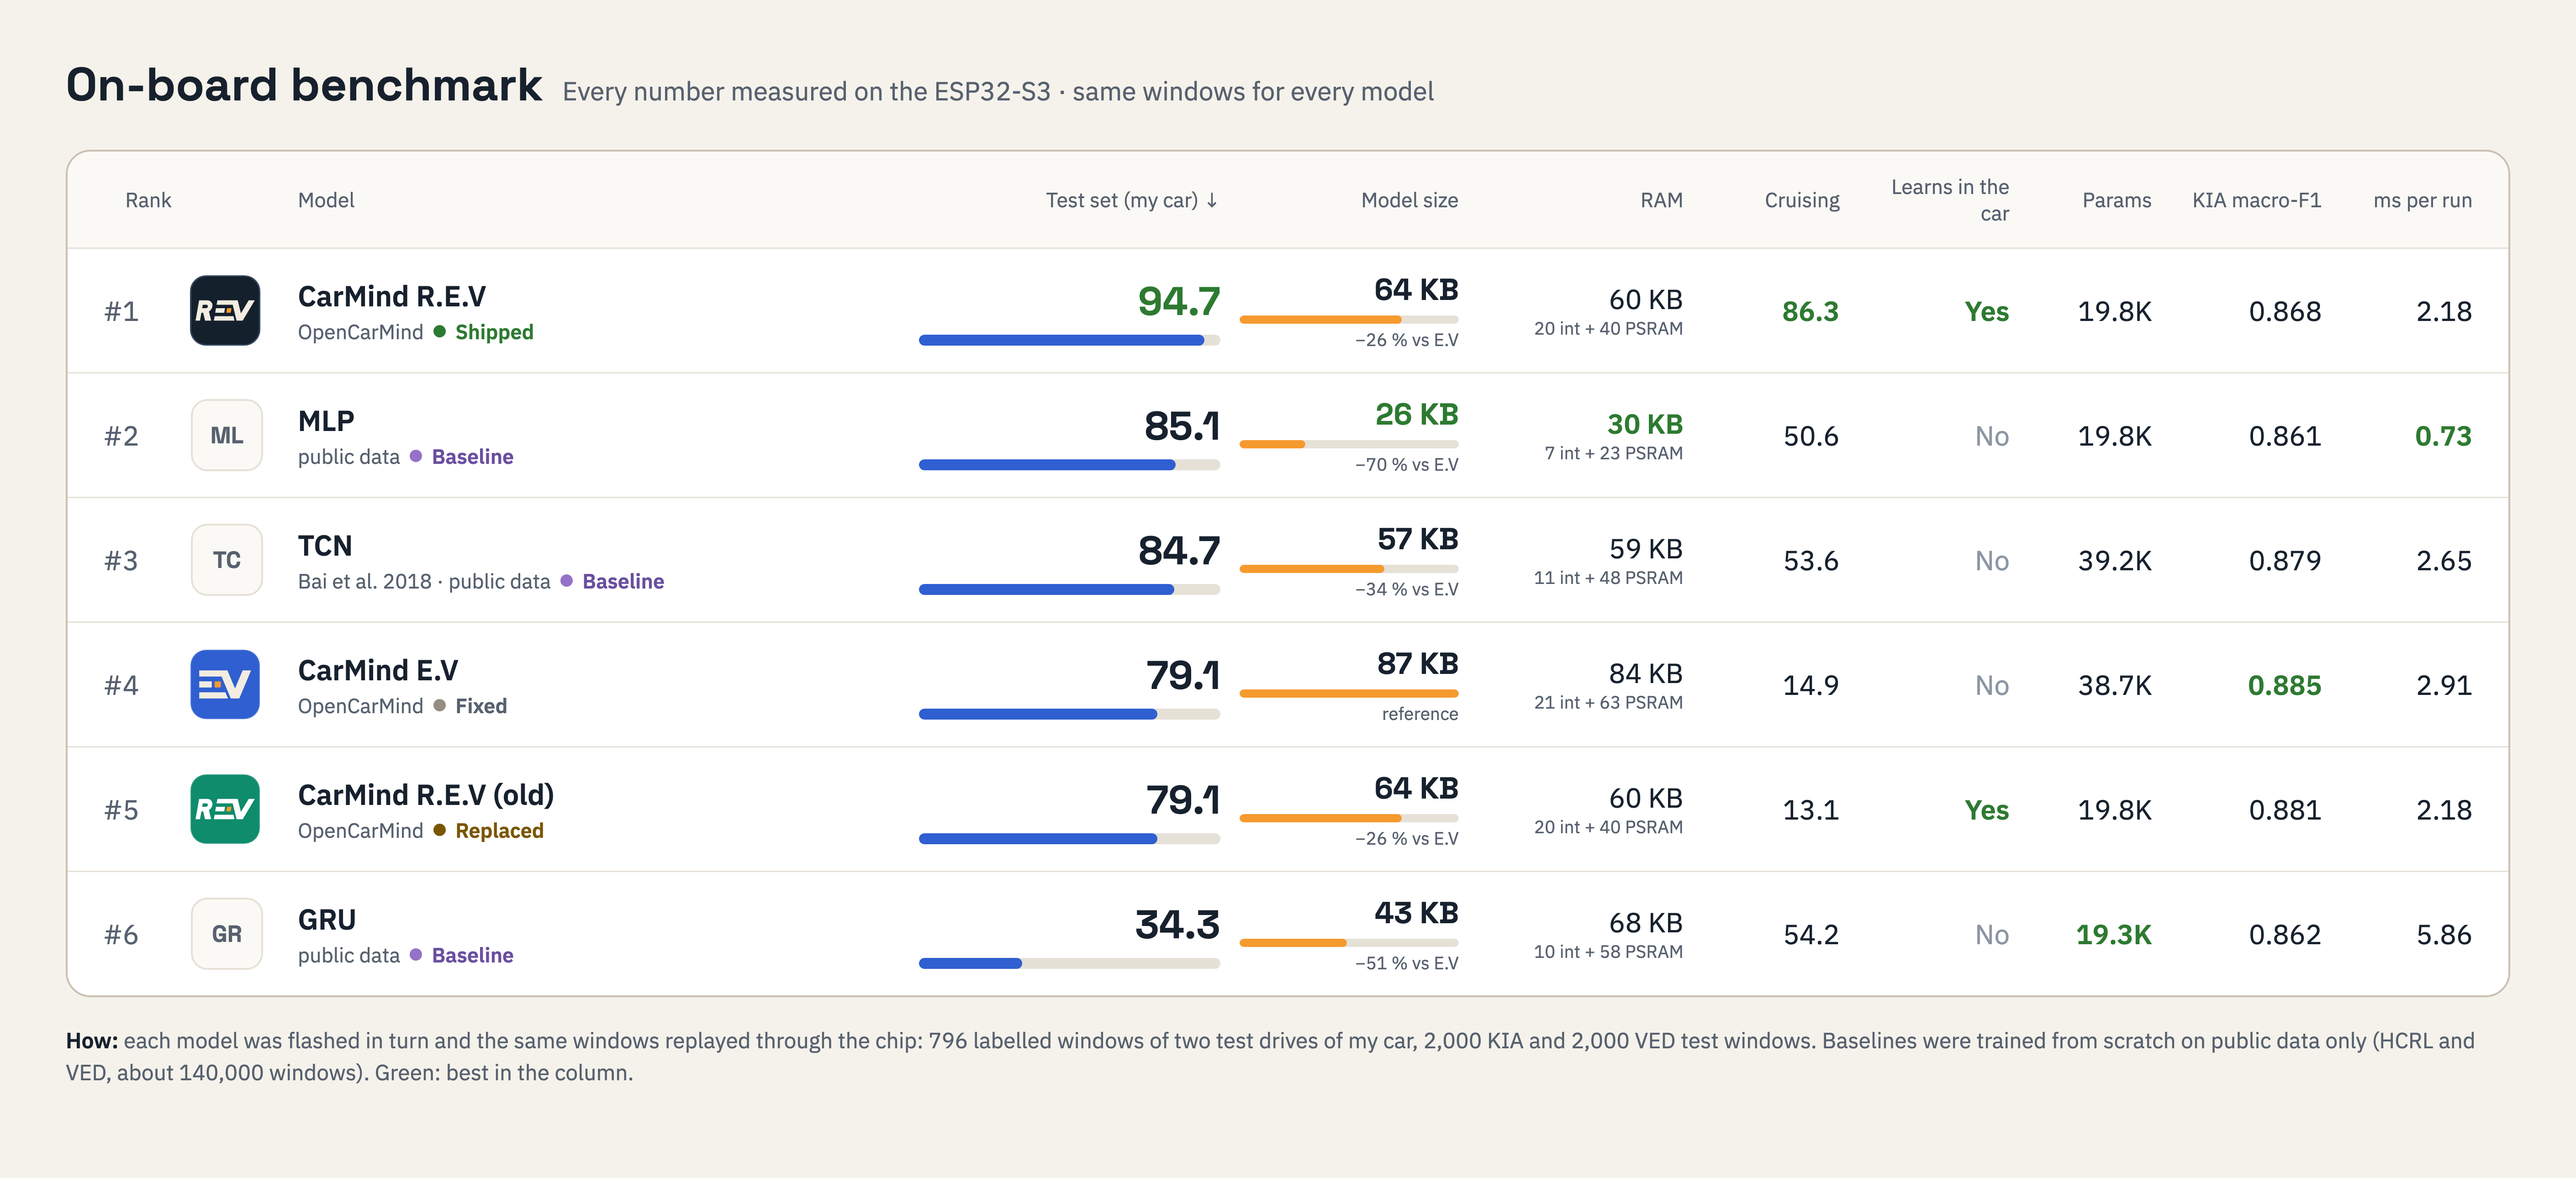
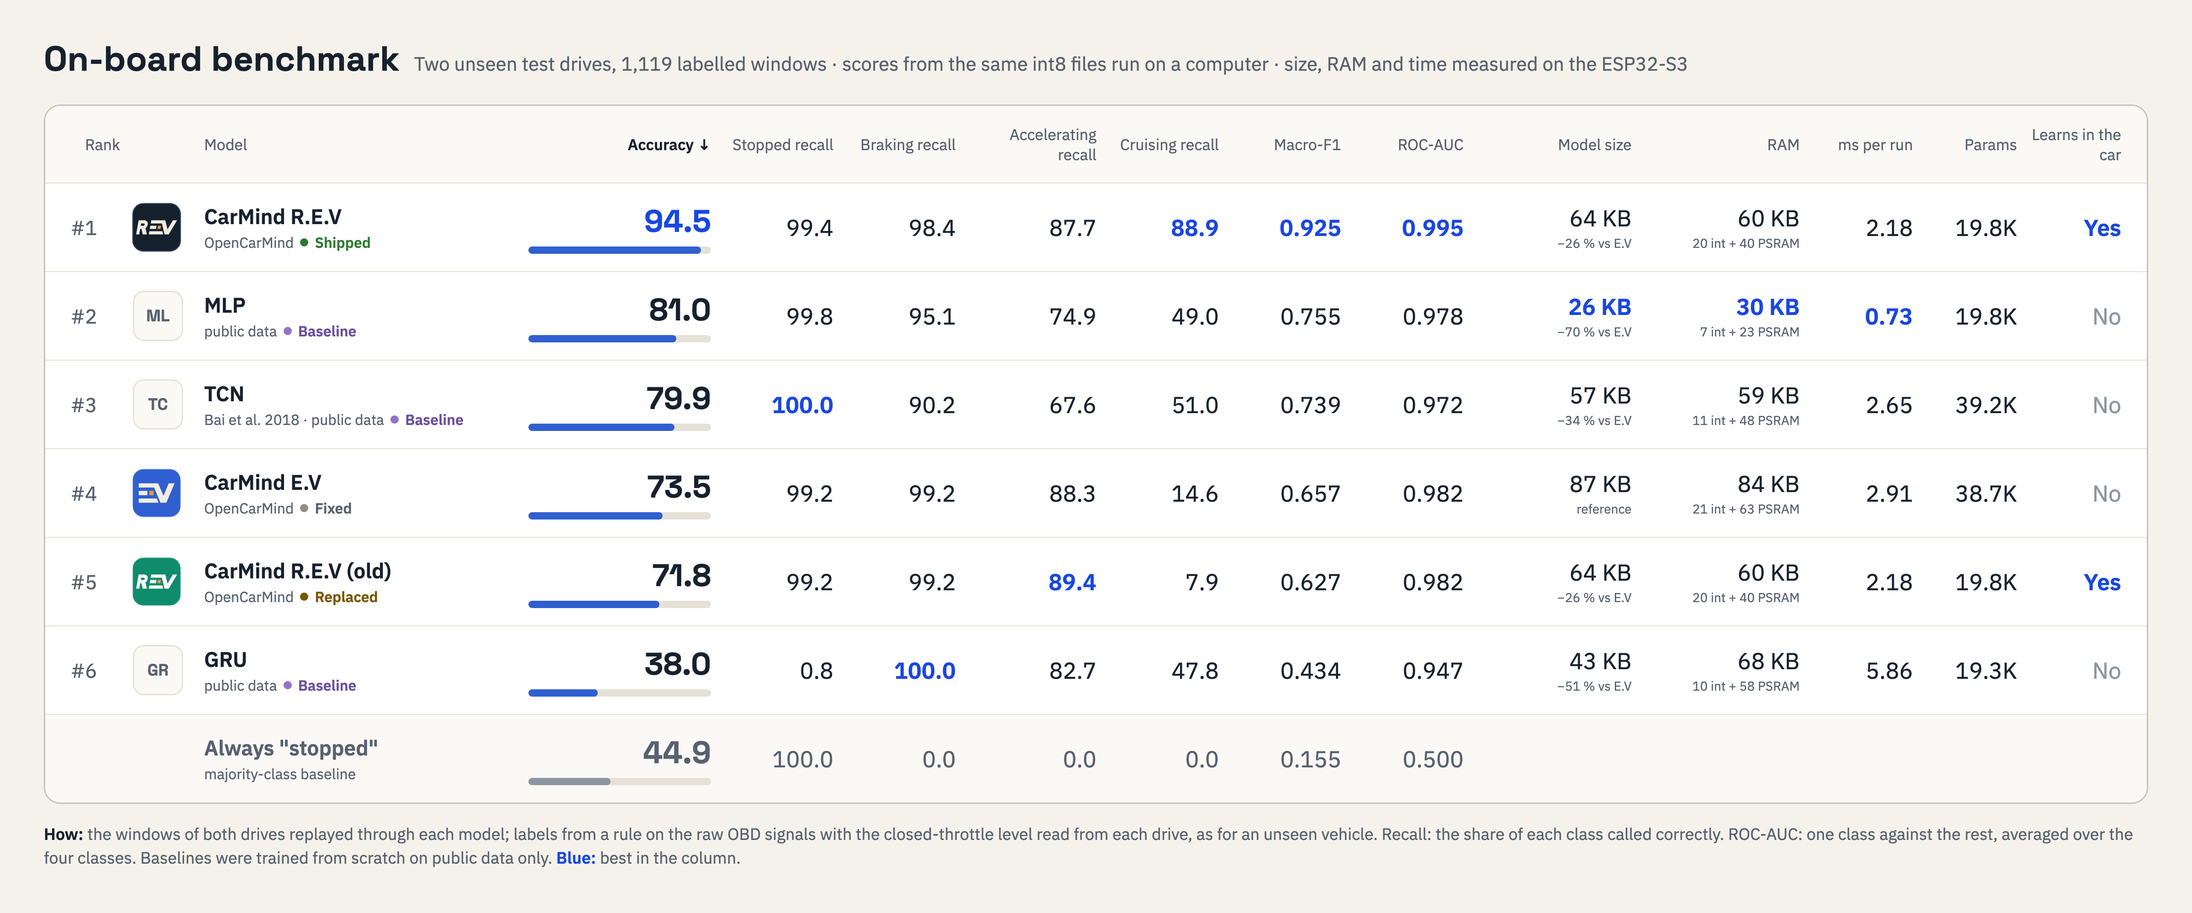
Benchmark table on the two unseen test drives: recall per class, macro-F1, ROC-AUC
Claude-Session: https://claude.ai/code/session_01XTAvvNGWPbxk6e88iM5qjd

diff --git a/docs/images/src/board-bench.html b/docs/images/src/board-bench.html
@@ -1,129 +1,133 @@
 <!doctype html>
-<html lang="en">
-<head>
-<meta charset="utf-8">
-<title>On-board benchmark</title>
-<link href="https://fonts.googleapis.com/css2?family=Space+Grotesk:wght@500;700&family=IBM+Plex+Sans:wght@400;500;600&display=swap" rel="stylesheet">
-<!-- Generated from the on-board bench results (every number measured on the ESP32-S3). Render with docs/images/render.sh. -->
+<html lang="en"><head><meta charset="utf-8"><title>On-board benchmark</title>
+<link rel="stylesheet" href="https://fonts.googleapis.com/css2?family=Space+Grotesk:wght@500;700&family=IBM+Plex+Sans:wght@400;500;600&display=swap">
 <style>
 html, body { margin: 0; background: #F5F2EB; font-family: 'IBM Plex Sans', system-ui, sans-serif; color: #17212E; }
-.wrap { width: 1880px; box-sizing: border-box; padding: 40px 48px 34px; }
-.head { display: flex; align-items: baseline; gap: 14px; }
-h1 { font-family: 'Space Grotesk', sans-serif; font-weight: 700; font-size: 34px; margin: 0; }
-.snap { font-size: 19px; color: #57616F; }
+.wrap { width: 2400px; box-sizing: border-box; padding: 40px 48px 34px; }
+.head { display: flex; align-items: baseline; gap: 16px; }
+h1 { font-family: 'Space Grotesk', sans-serif; font-weight: 700; font-size: 38px; margin: 0; }
+.snap { font-size: 21px; color: #57616F; }
 .table { margin-top: 26px; background: #FFFFFF; border: 1.5px solid #C9C1B3; border-radius: 18px; overflow: hidden; }
-.tr { display: grid; grid-template-columns: 50px 64px minmax(0, 1fr) 220px 160px 150px 100px 110px 90px 110px 96px; align-items: center; gap: 0 14px; padding: 0 26px; min-height: 90px; border-top: 1px solid #E6E1D7; }
-.th { min-height: 70px; border-top: none; background: #FBF9F5; font-size: 15px; color: #57616F; line-height: 1.3; }
+.tr { display: grid; grid-template-columns: 54px 64px minmax(0, 1fr) 200px 120px 120px 140px 120px 120px 120px 170px 170px 110px 100px 100px; align-items: center; gap: 0 14px; padding: 0 28px; min-height: 96px; border-top: 1px solid #E6E1D7; }
+.th { min-height: 84px; border-top: none; background: #FBF9F5; font-size: 17px; color: #57616F; line-height: 1.3; }
 .th span { text-align: right; }
-.th .c, .num.c { background: transparent; }
-.th .grp { color: #57616F; }
-.rank { font-size: 20px; color: #57616F; }
-.logo { width: 50px; height: 50px; border-radius: 12px; display: flex; align-items: center; justify-content: center; border: 1.5px solid #E6E1D7; font-family: 'Space Grotesk', sans-serif; font-weight: 700; font-size: 17px; color: #57616F; background: #FBF9F5; }
-.logo.ocm { background: #15202D; border-color: #15202D; }
-.logo img { width: 38px; height: 38px; }
+.th .grp { color: #17212E; font-weight: 600; }
+.rank { font-size: 22px; color: #57616F; }
+.logo { width: 52px; height: 52px; border-radius: 12px; display: flex; align-items: center; justify-content: center; border: 1.5px solid #E6E1D7; font-family: 'Space Grotesk', sans-serif; font-weight: 700; font-size: 18px; color: #57616F; background: #FBF9F5; }
 .logo.badge { border: none; background: none; }
-.logo.badge img { width: 54px; height: 54px; display: block; }
-.nm { font-size: 21px; font-weight: 600; }
-.sub { font-size: 15px; color: #57616F; margin-top: 3px; display: flex; align-items: center; gap: 7px; }
+.logo.badge img { width: 56px; height: 56px; display: block; }
+.nm { font-size: 23px; font-weight: 600; }
+.sub { font-size: 16px; color: #57616F; margin-top: 3px; display: flex; align-items: center; gap: 7px; }
 .d { width: 9px; height: 9px; border-radius: 5px; }
 .d.ship { background: #2D7A31; } .d.fixed { background: #948D81; } .d.repl { background: #7A5600; } .d.base { background: #9372C8; }
 .tag { font-weight: 600; } .tag.ship { color: #2D7A31; } .tag.fixed { color: #57616F; } .tag.repl { color: #7A5600; } .tag.base { color: #6A4FA0; }
 .score { text-align: right; }
-.score .n { font-family: 'Space Grotesk', sans-serif; font-weight: 700; font-size: 29px; }
+.score .n { font-family: 'Space Grotesk', sans-serif; font-weight: 700; font-size: 34px; }
 .bar { height: 8px; border-radius: 4px; background: #E6E1D7; margin-top: 6px; overflow: hidden; }
 .bar i { display: block; height: 100%; border-radius: 4px; background: #2F5FD0; }
-.num { text-align: right; font-size: 20px; }
+.num { text-align: right; font-size: 25px; }
+.num small, .size small { display: block; font-size: 14px; color: #57616F; margin-top: 2px; }
 .size { text-align: right; }
-.size .n2 { font-family: 'Space Grotesk', sans-serif; font-weight: 700; font-size: 22px; }
-.size small { display: block; font-size: 13px; color: #57616F; margin-top: 3px; }
-.bar.s { height: 6px; margin-top: 5px; }
-.bar.s i { background: #F59A2E; }
-.num small { display: block; font-size: 13px; color: #57616F; }
-.best { color: #2D7A31; font-weight: 700; }
+.size .n2 { font-size: 25px; }
+.hi { color: #1A47E0; font-weight: 700; }
 .no { color: #8C96A3; }
-.ctx { display: flex; gap: 28px; margin-top: 20px; font-size: 16px; color: #57616F; line-height: 1.45; }
+.tr.base { background: #FBF9F5; color: #57616F; }
+.tr.base .num, .tr.base .score .n { color: #57616F; }
+.ctx { display: flex; gap: 28px; margin-top: 20px; font-size: 18px; color: #57616F; line-height: 1.45; }
 .ctx b { color: #17212E; font-weight: 600; }
-</style>
-</head>
+</style></head>
 <body>
 <div class="wrap">
-  <div class="head"><h1>On-board benchmark</h1><span class="snap">Every number measured on the ESP32-S3 · same windows for every model</span></div>
+  <div class="head"><h1>On-board benchmark</h1><span class="snap">Two unseen test drives, 1,119 labelled windows · scores from the same int8 files run on a computer · size, RAM and time measured on the ESP32-S3</span></div>
   <div class="table">
-    <div class="tr th"><span>Rank</span><span></span><span style="text-align:left">Model</span><span>Test set (my car) ↓</span><span>Model size</span><span>RAM</span><span>Cruising</span><span>Learns in the car</span><span>Params</span><span class="c">KIA macro-F1</span><span class="c">ms per run</span></div>
+    <div class="tr th"><span>Rank</span><span></span><span style="text-align:left">Model</span><span class="grp">Accuracy ↓</span><span>Stopped recall</span><span>Braking recall</span><span>Accelerating recall</span><span>Cruising recall</span><span>Macro-F1</span><span>ROC-AUC</span><span>Model size</span><span>RAM</span><span>ms per run</span><span>Params</span><span>Learns in the car</span></div>
 <div class="tr">
   <span class="rank">#1</span><span class="logo badge"><img src="../../../assets/logo/carmind-rev-small.svg" alt=""></span>
   <div><div class="nm">CarMind R.E.V</div><div class="sub">OpenCarMind <span class="d ship"></span><span class="tag ship">Shipped</span></div></div>
-  <div class="score"><span class="n"><span class="best">94.7</span></span><div class="bar"><i style="width:94.7%"></i></div></div>
-  <div class="size"><span class="n2"><span class="">64 KB</span></span><div class="bar s"><i style="width:74%"></i></div><small>−26 % vs E.V</small></div>
-  <span class="num"><span class="">60 KB</span><small>20 int + 40 PSRAM</small></span>
-  <span class="num"><span class="best">86.3</span></span>
-  <span class="num"><span class="best">Yes</span></span>
-  <span class="num"><span class="">19.8K</span></span>
-  <span class="num c"><span class="">0.868</span></span>
-  <span class="num c"><span class="">2.18</span></span>
+  <div class="score"><span class="n"><span class="hi">94.5</span></span><div class="bar"><i style="width:94.5%"></i></div></div>
+  <span class="num">99.4</span><span class="num">98.4</span><span class="num">87.7</span><span class="num"><span class="hi">88.9</span></span>
+  <span class="num"><span class="hi">0.925</span></span>
+  <span class="num"><span class="hi">0.995</span></span>
+  <div class="size"><span class="n2">64 KB</span><small>−26 % vs E.V</small></div>
+  <span class="num">60 KB<small>20 int + 40 PSRAM</small></span>
+  <span class="num">2.18</span>
+  <span class="num">19.8K</span>
+  <span class="num"><span class="hi">Yes</span></span>
 </div>
 <div class="tr">
   <span class="rank">#2</span><span class="logo">ML</span>
   <div><div class="nm">MLP</div><div class="sub">public data <span class="d base"></span><span class="tag base">Baseline</span></div></div>
-  <div class="score"><span class="n"><span class="">85.1</span></span><div class="bar"><i style="width:85.1%"></i></div></div>
-  <div class="size"><span class="n2"><span class="best">26 KB</span></span><div class="bar s"><i style="width:30%"></i></div><small>−70 % vs E.V</small></div>
-  <span class="num"><span class="best">30 KB</span><small>7 int + 23 PSRAM</small></span>
-  <span class="num"><span class="">50.6</span></span>
+  <div class="score"><span class="n">81.0</span><div class="bar"><i style="width:81.0%"></i></div></div>
+  <span class="num">99.8</span><span class="num">95.1</span><span class="num">74.9</span><span class="num">49.0</span>
+  <span class="num">0.755</span>
+  <span class="num">0.978</span>
+  <div class="size"><span class="n2"><span class="hi">26 KB</span></span><small>−70 % vs E.V</small></div>
+  <span class="num"><span class="hi">30 KB</span><small>7 int + 23 PSRAM</small></span>
+  <span class="num"><span class="hi">0.73</span></span>
+  <span class="num">19.8K</span>
   <span class="num"><span class="no">No</span></span>
-  <span class="num"><span class="">19.8K</span></span>
-  <span class="num c"><span class="">0.861</span></span>
-  <span class="num c"><span class="best">0.73</span></span>
 </div>
 <div class="tr">
   <span class="rank">#3</span><span class="logo">TC</span>
   <div><div class="nm">TCN</div><div class="sub">Bai et al. 2018 · public data <span class="d base"></span><span class="tag base">Baseline</span></div></div>
-  <div class="score"><span class="n"><span class="">84.7</span></span><div class="bar"><i style="width:84.7%"></i></div></div>
-  <div class="size"><span class="n2"><span class="">57 KB</span></span><div class="bar s"><i style="width:66%"></i></div><small>−34 % vs E.V</small></div>
-  <span class="num"><span class="">59 KB</span><small>11 int + 48 PSRAM</small></span>
-  <span class="num"><span class="">53.6</span></span>
+  <div class="score"><span class="n">79.9</span><div class="bar"><i style="width:79.9%"></i></div></div>
+  <span class="num"><span class="hi">100.0</span></span><span class="num">90.2</span><span class="num">67.6</span><span class="num">51.0</span>
+  <span class="num">0.739</span>
+  <span class="num">0.972</span>
+  <div class="size"><span class="n2">57 KB</span><small>−34 % vs E.V</small></div>
+  <span class="num">59 KB<small>11 int + 48 PSRAM</small></span>
+  <span class="num">2.65</span>
+  <span class="num">39.2K</span>
   <span class="num"><span class="no">No</span></span>
-  <span class="num"><span class="">39.2K</span></span>
-  <span class="num c"><span class="">0.879</span></span>
-  <span class="num c"><span class="">2.65</span></span>
 </div>
 <div class="tr">
   <span class="rank">#4</span><span class="logo badge"><img src="../../../assets/logo/carmind-ev-small.svg" alt=""></span>
   <div><div class="nm">CarMind E.V</div><div class="sub">OpenCarMind <span class="d fixed"></span><span class="tag fixed">Fixed</span></div></div>
-  <div class="score"><span class="n"><span class="">79.1</span></span><div class="bar"><i style="width:79.1%"></i></div></div>
-  <div class="size"><span class="n2"><span class="">87 KB</span></span><div class="bar s"><i style="width:100%"></i></div><small>reference</small></div>
-  <span class="num"><span class="">84 KB</span><small>21 int + 63 PSRAM</small></span>
-  <span class="num"><span class="">14.9</span></span>
+  <div class="score"><span class="n">73.5</span><div class="bar"><i style="width:73.5%"></i></div></div>
+  <span class="num">99.2</span><span class="num">99.2</span><span class="num">88.3</span><span class="num">14.6</span>
+  <span class="num">0.657</span>
+  <span class="num">0.982</span>
+  <div class="size"><span class="n2">87 KB</span><small>reference</small></div>
+  <span class="num">84 KB<small>21 int + 63 PSRAM</small></span>
+  <span class="num">2.91</span>
+  <span class="num">38.7K</span>
   <span class="num"><span class="no">No</span></span>
-  <span class="num"><span class="">38.7K</span></span>
-  <span class="num c"><span class="best">0.885</span></span>
-  <span class="num c"><span class="">2.91</span></span>
 </div>
 <div class="tr">
   <span class="rank">#5</span><span class="logo badge"><img src="../../../assets/logo/carmind-rev-old-small.svg" alt=""></span>
   <div><div class="nm">CarMind R.E.V (old)</div><div class="sub">OpenCarMind <span class="d repl"></span><span class="tag repl">Replaced</span></div></div>
-  <div class="score"><span class="n"><span class="">79.1</span></span><div class="bar"><i style="width:79.1%"></i></div></div>
-  <div class="size"><span class="n2"><span class="">64 KB</span></span><div class="bar s"><i style="width:74%"></i></div><small>−26 % vs E.V</small></div>
-  <span class="num"><span class="">60 KB</span><small>20 int + 40 PSRAM</small></span>
-  <span class="num"><span class="">13.1</span></span>
-  <span class="num"><span class="best">Yes</span></span>
-  <span class="num"><span class="">19.8K</span></span>
-  <span class="num c"><span class="">0.881</span></span>
-  <span class="num c"><span class="">2.18</span></span>
+  <div class="score"><span class="n">71.8</span><div class="bar"><i style="width:71.8%"></i></div></div>
+  <span class="num">99.2</span><span class="num">99.2</span><span class="num"><span class="hi">89.4</span></span><span class="num">7.9</span>
+  <span class="num">0.627</span>
+  <span class="num">0.982</span>
+  <div class="size"><span class="n2">64 KB</span><small>−26 % vs E.V</small></div>
+  <span class="num">60 KB<small>20 int + 40 PSRAM</small></span>
+  <span class="num">2.18</span>
+  <span class="num">19.8K</span>
+  <span class="num"><span class="hi">Yes</span></span>
 </div>
 <div class="tr">
   <span class="rank">#6</span><span class="logo">GR</span>
   <div><div class="nm">GRU</div><div class="sub">public data <span class="d base"></span><span class="tag base">Baseline</span></div></div>
-  <div class="score"><span class="n"><span class="">34.3</span></span><div class="bar"><i style="width:34.3%"></i></div></div>
-  <div class="size"><span class="n2"><span class="">43 KB</span></span><div class="bar s"><i style="width:49%"></i></div><small>−51 % vs E.V</small></div>
-  <span class="num"><span class="">68 KB</span><small>10 int + 58 PSRAM</small></span>
-  <span class="num"><span class="">54.2</span></span>
+  <div class="score"><span class="n">38.0</span><div class="bar"><i style="width:38.0%"></i></div></div>
+  <span class="num">0.8</span><span class="num"><span class="hi">100.0</span></span><span class="num">82.7</span><span class="num">47.8</span>
+  <span class="num">0.434</span>
+  <span class="num">0.947</span>
+  <div class="size"><span class="n2">43 KB</span><small>−51 % vs E.V</small></div>
+  <span class="num">68 KB<small>10 int + 58 PSRAM</small></span>
+  <span class="num">5.86</span>
+  <span class="num">19.3K</span>
   <span class="num"><span class="no">No</span></span>
-  <span class="num"><span class="best">19.3K</span></span>
-  <span class="num c"><span class="">0.862</span></span>
-  <span class="num c"><span class="">5.86</span></span>
+</div>
+<div class="tr base">
+  <span class="rank"></span><span></span>
+  <div><div class="nm">Always "stopped"</div><div class="sub">majority-class baseline</div></div>
+  <div class="score"><span class="n">44.9</span><div class="bar"><i style="width:44.9%; background:#8C96A3"></i></div></div>
+  <span class="num">100.0</span><span class="num">0.0</span><span class="num">0.0</span><span class="num">0.0</span>
+  <span class="num">0.155</span><span class="num">0.500</span>
+  <span class="num"></span><span class="num"></span><span class="num"></span><span class="num"></span><span class="num"></span>
 </div>
   </div>
-  <div class="ctx"><span><b>How:</b> each model was flashed in turn and the same windows replayed through the chip: 796 labelled windows of two test drives of my car, 2,000 KIA and 2,000 VED test windows. Baselines were trained from scratch on public data only (HCRL and VED, about 140,000 windows). Green: best in the column.</span></div>
+  <div class="ctx"><span><b>How:</b> the windows of both drives replayed through each model; labels from a rule on the raw OBD signals with the closed-throttle level read from each drive, as for an unseen vehicle. Recall: the share of each class called correctly. ROC-AUC: one class against the rest, averaged over the four classes. Baselines were trained from scratch on public data only. <b style="color:#1A47E0">Blue:</b> best in the column.</span></div>
 </div>
-</body>
-</html>
+</body></html>

diff --git a/README.md b/README.md
@@ -235,7 +235,7 @@ Method and a comparison with routine driving: [docs/TEST_DRIVES.md](docs/TEST_DR
 
 <p align="center"><img src="docs/images/leaders.png" width="900" alt="CarMind model leaders: the models on main, tested on two drives they never saw, scored as an unknown car. R.E.V: 94.5 percent of windows right, cruising 88.9, braking 98.4, accelerating 87.7, stopped 99.4, earlier held-out drives 95.1, KIA test 87.1, fuel R squared 0.867 learned on 31 cars. R.E.V (old): 71.8 percent, cruising 7.9. E.V: 73.5 percent, cruising 14.6, does not learn"></p>
 
-<p align="center"><img src="docs/images/board-bench.png" width="900" alt="On-board benchmark, every number measured on the ESP32-S3 on the same windows. Ranked by the test set of my car: CarMind R.E.V 94.7 percent, 64 KB, cruising 86.3, learns in the car; MLP 85.1; TCN 84.7; CarMind E.V 79.1; CarMind R.E.V (old) 79.1; GRU 34.3. The MLP is the smallest and fastest, E.V has the best KIA macro-F1"></p>
+<p align="center"><img src="docs/images/board-bench.png" width="900" alt="On-board benchmark on two unseen test drives, 1,119 labelled windows. Accuracy, recall per class, macro-F1 and ROC-AUC: CarMind R.E.V 94.5 percent, macro-F1 0.925, ROC-AUC 0.995, cruising recall 88.9; MLP 81.0; TCN 79.9; CarMind E.V 73.5; CarMind R.E.V (old) 71.8; GRU 38.0; always stopped baseline 44.9. Size, RAM and time per run measured on the ESP32-S3"></p>
 
 <p align="center"><img src="docs/images/learner-board.png" width="900" alt="Fuel learner leaderboard on 31 unseen VED cars with the airflow hidden, ranked by R squared with 1 percent bad labels: Huber RLS (R.E.V) 0.867, ANIL 0.774, no learning 0.709, Plain RLS (R.E.V old) 0.696, Meta-SGD 0.151"></p>
 
